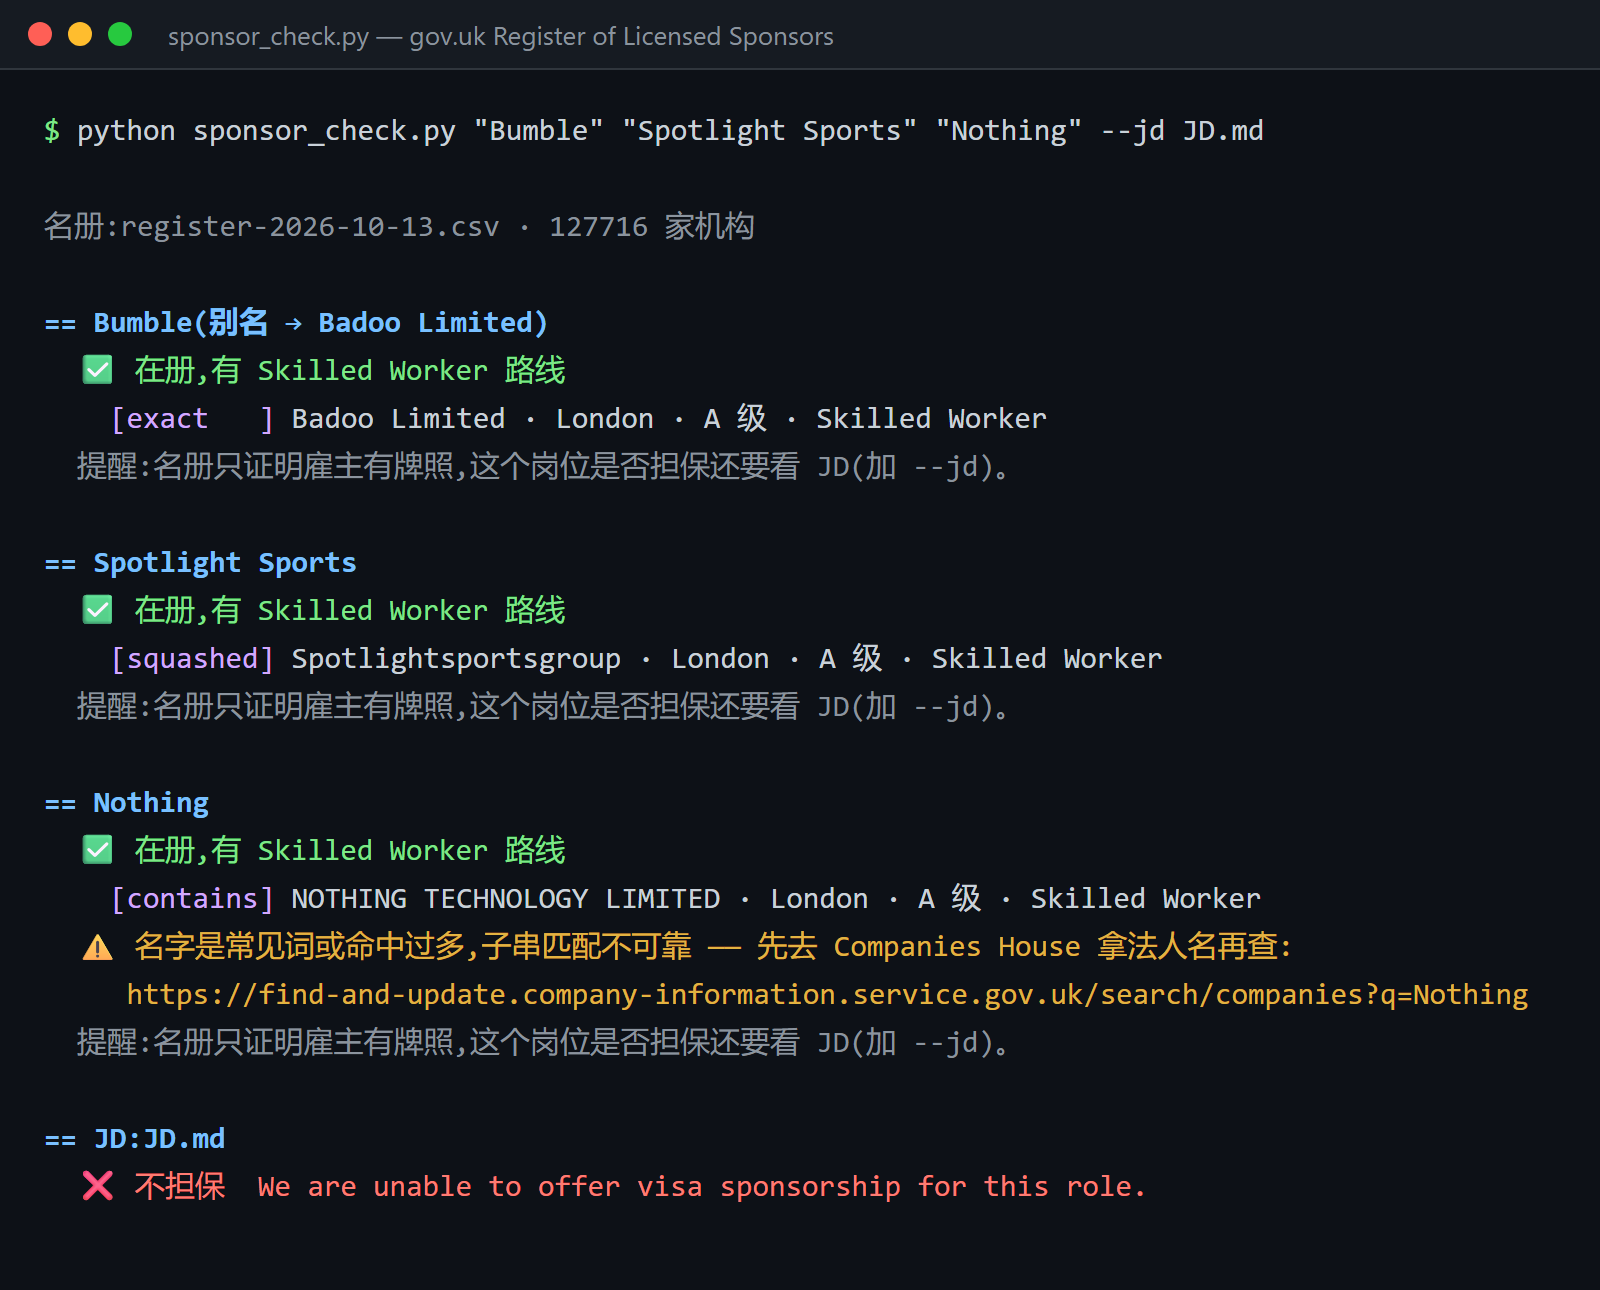
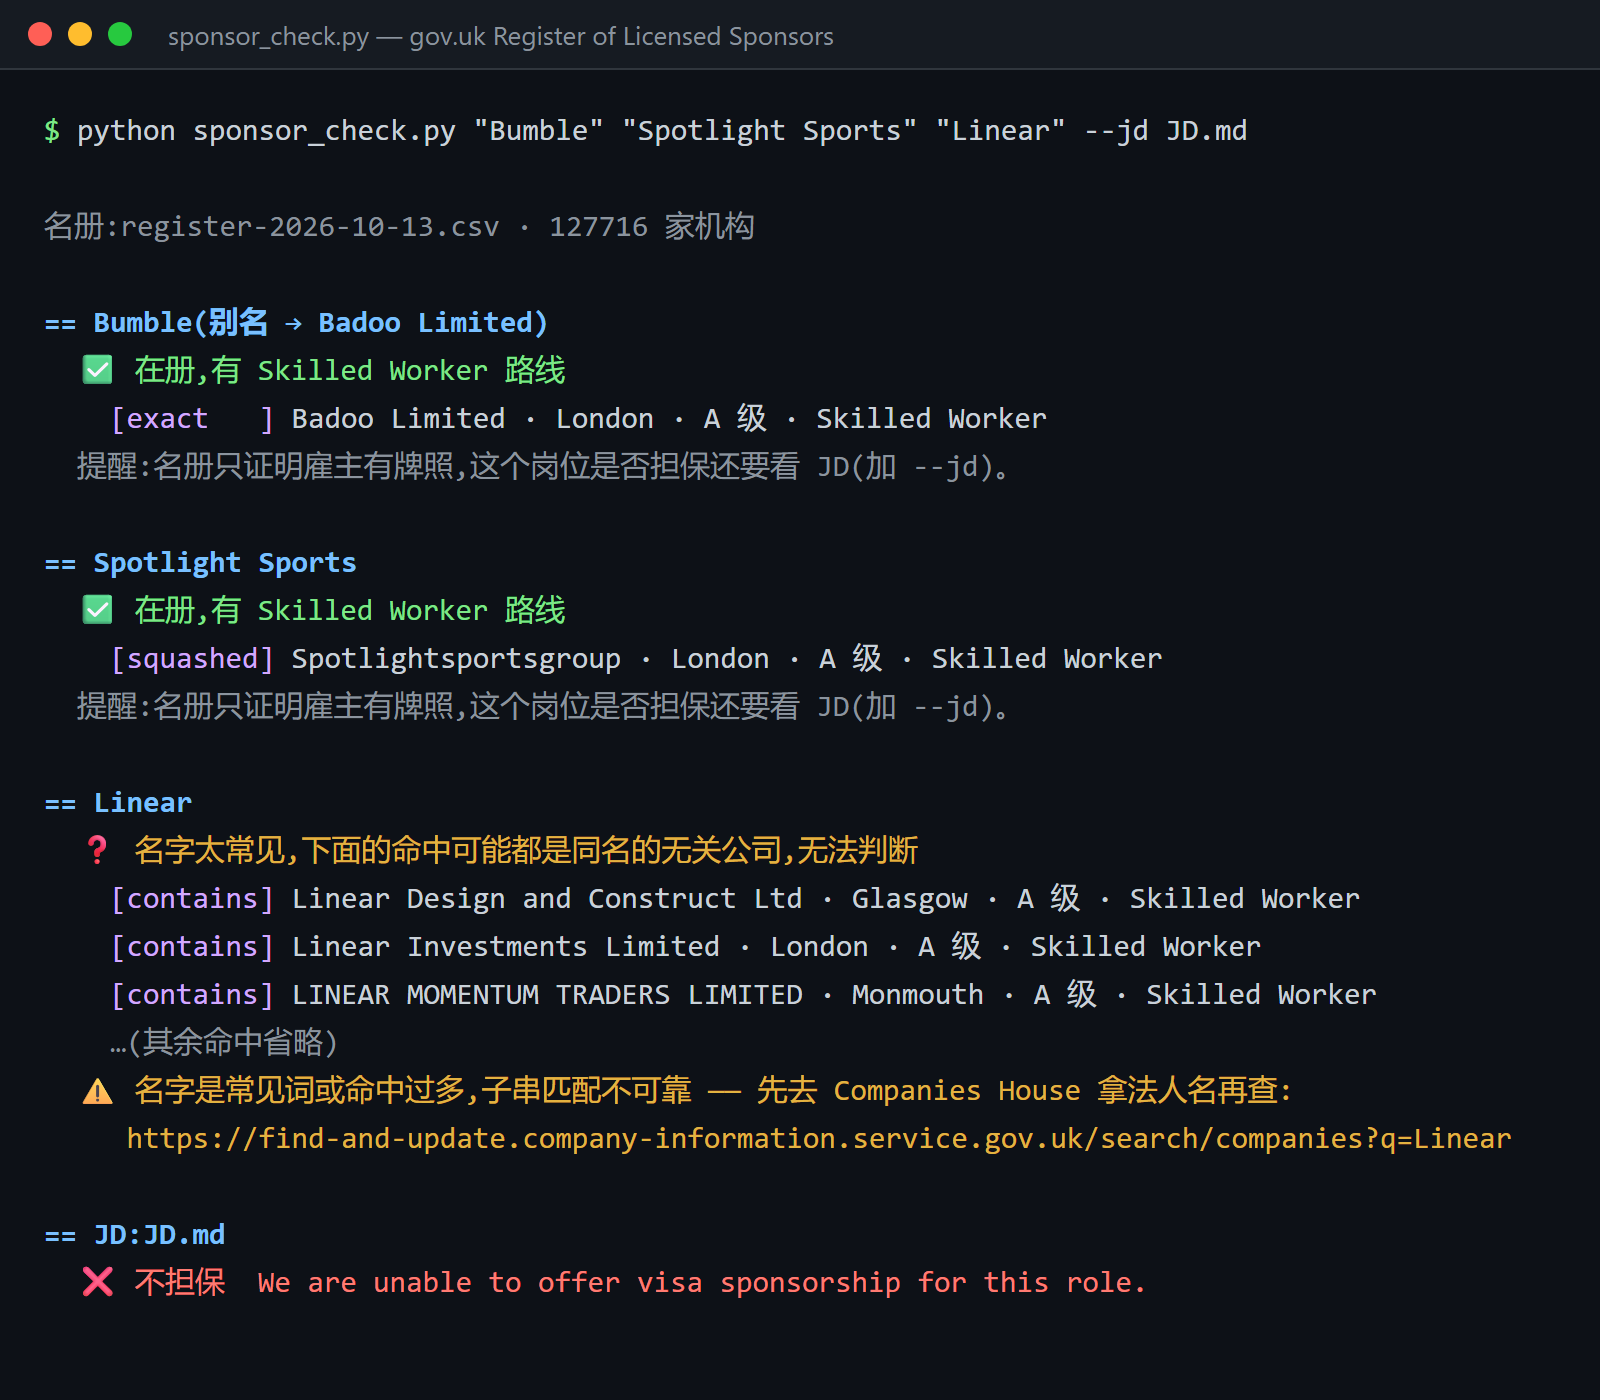
fix: don't give a green tick for common-word company names
"Wise" returned "Skilled Worker" because unrelated companies such as
"Aaron Wise Limited" substring-matched, while the exact "WISE" entry is a
religious organisation. Common-word queries without an alias now report
AMBIGUOUS and point to Companies House; aliases that pin the legal entity
clear the warning. Adds Wise -> Wise Payments Limited and
Nothing -> NOTHING TECHNOLOGY LIMITED (both verified in the register).
Demo screenshot updated to show the ambiguous case.

diff --git a/scripts/sponsor_check.py b/scripts/sponsor_check.py
@@ -197,7 +197,7 @@ class Match:
 @dataclass
 class LookupResult:
     query: str
-    status: str = "NOT_FOUND"          # SKILLED_WORKER / OTHER_ROUTE_ONLY / POSSIBLE / NOT_FOUND
+    status: str = "NOT_FOUND"          # SKILLED_WORKER / OTHER_ROUTE_ONLY / AMBIGUOUS / POSSIBLE / NOT_FOUND
     matches: list = field(default_factory=list)
     total_hits: int = 0
     noisy: bool = False
@@ -244,10 +244,12 @@ def lookup(query: str, register: Register, aliases: dict | None = None) -> Looku
     result = LookupResult(query=query, companies_house_url=COMPANIES_HOUSE_SEARCH + quote_plus(query.strip()))
     found = _search(core_name(query), register)
     legal = _alias_for(query, aliases or {})
+    alias_pinned = False
     if legal:
         result.via_alias = legal
         alias_found = _search(core_name(legal), register)
-        if any(m.kind in ("exact", "squashed") for m in alias_found.values()):
+        alias_pinned = any(m.kind in ("exact", "squashed") for m in alias_found.values())
+        if alias_pinned:
             # 别名已经精确定位到法人,商号本身的子串/近似命中只是噪音
             found = {n: m for n, m in found.items() if m.kind == "exact"}
         for name, m in alias_found.items():
@@ -258,10 +260,15 @@ def lookup(query: str, register: Register, aliases: dict | None = None) -> Looku
                                                    m.org.name.lower()))
     result.matches, result.total_hits = ranked, len(ranked)
     core = core_name(query)
-    result.noisy = (len(core.split()) == 1 and core in COMMON_WORDS) or len(ranked) > NOISY_HIT_THRESHOLD
+    # 别名已精确定位法人时,常见词的噪音不再影响结论
+    result.noisy = not alias_pinned and (
+        (len(core.split()) == 1 and core in COMMON_WORDS) or len(ranked) > NOISY_HIT_THRESHOLD)
 
     strong = [m for m in ranked if m.kind != "similar"]
-    if strong:
+    if result.noisy and not legal and strong:
+        # 常见词的子串命中多半是同名无关公司,不能据此给出"有牌照"的结论
+        result.status = "AMBIGUOUS"
+    elif strong:
         result.status = ("SKILLED_WORKER" if any(SKILLED_WORKER in m.org.routes for m in strong)
                          else "OTHER_ROUTE_ONLY")
     elif ranked:
@@ -310,6 +317,7 @@ def scan_jd(text: str) -> list[JdHit]:
 STATUS_TEXT = {
     "SKILLED_WORKER": "✅ 在册,有 Skilled Worker 路线",
     "OTHER_ROUTE_ONLY": "⚠ 在册,但没有 Skilled Worker 路线",
+    "AMBIGUOUS": "❓ 名字太常见,下面的命中可能都是同名的无关公司,无法判断",
     "POSSIBLE": "❓ 只有近似匹配,请人工确认是不是同一家",
     "NOT_FOUND": "❌ 名册查无",
 }

diff --git a/tests/test_sponsor_check.py b/tests/test_sponsor_check.py
@@ -98,6 +98,20 @@ def test_common_word_name_is_flagged_noisy(register):
     assert r.noisy is True
 
 
+def test_common_word_without_alias_is_ambiguous_not_a_green_tick(register):
+    # substring hits on a common word must not produce a confident "Skilled Worker" verdict
+    r = sc.lookup("Nothing", register)
+    assert r.status == "AMBIGUOUS"
+    assert "❓" in sc.render(r)
+
+
+def test_alias_resolves_common_word_ambiguity(register):
+    r = sc.lookup("Nothing", register, aliases={"Nothing": "NOTHING TECHNOLOGY LIMITED"})
+    assert r.status == "SKILLED_WORKER"
+    assert r.noisy is False   # no "unreliable" warning once the alias pins the legal entity
+    assert [m.org.name for m in r.matches] == ["NOTHING TECHNOLOGY LIMITED"]
+
+
 def test_other_route_only_is_not_reported_as_skilled_worker(register):
     r = sc.lookup("Sports Charity Trust", register)
     assert r.status == "OTHER_ROUTE_ONLY"

diff --git a/README.md b/README.md
@@ -10,7 +10,7 @@ It works with any assistant. Claude Code, Codex, Cursor and Gemini CLI can read 
 
 ## Just want to check visa sponsorship? 3 steps
 
-![sponsor_check.py demo: Bumble resolves to Badoo Limited, Spotlight Sports to Spotlightsportsgroup, and a JD flagged as not sponsoring](docs/demo-sponsor-check.png)
+![sponsor_check.py demo: Bumble resolves to Badoo Limited, Spotlight Sports to Spotlightsportsgroup, the common word "Linear" is flagged as ambiguous, and a JD is flagged as not sponsoring](docs/demo-sponsor-check.png)
 
 No git, no AI tool, no packages. You only need [Python 3.10+](https://www.python.org/downloads/) (on Windows, tick "Add python.exe to PATH" during install).
 

diff --git a/README.zh.md b/README.zh.md
@@ -10,7 +10,7 @@
 
 ## 只想查签证担保？3 步上手
 
-![sponsor_check.py 演示：Bumble 查到法人 Badoo Limited，Spotlight Sports 查到连写的 Spotlightsportsgroup，JD 被识别为不担保](docs/demo-sponsor-check.png)
+![sponsor_check.py 演示：Bumble 查到法人 Badoo Limited，Spotlight Sports 查到连写的 Spotlightsportsgroup，常见词 "Linear" 被标为无法判断，JD 被识别为不担保](docs/demo-sponsor-check.png)
 
 不用会 git，不用 AI 工具，也不用装任何依赖。只需要装好 [Python 3.10 以上版本](https://www.python.org/downloads/)（Windows 安装时记得勾选 "Add python.exe to PATH"）。
 
